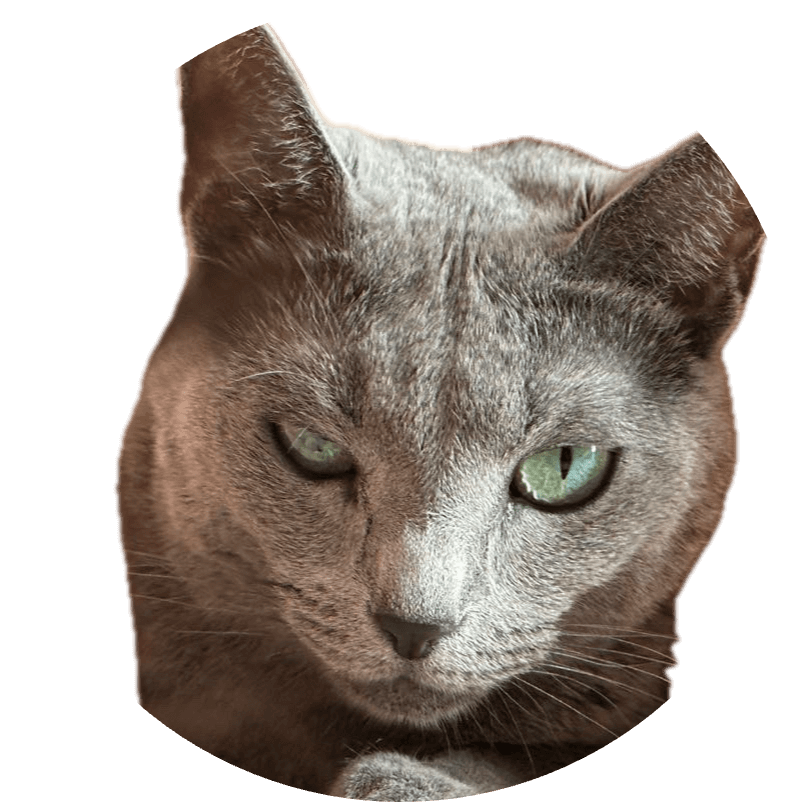
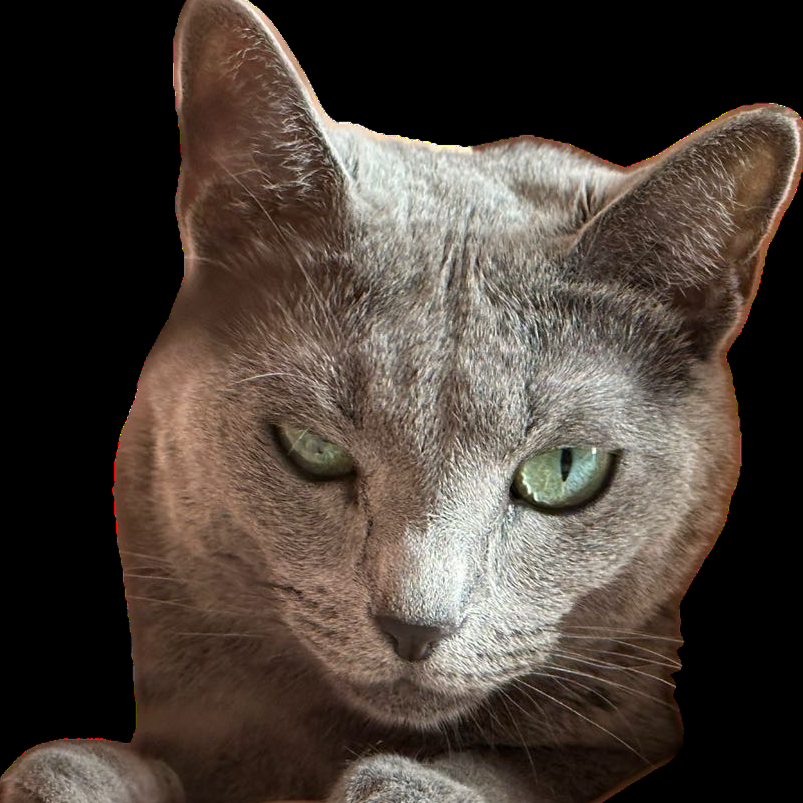
New Post

diff --git a/content/posts/2024-06-14.md b/content/posts/2024-06-14.md
@@ -1,0 +1,147 @@
+---
+title: 自我回溯和认可
+date: 2024-06-14 08:00:00
+template: post
+draft: false
+slug: /2024-06-14
+category: Misc
+tags:
+  - Misc
+cover: media/20240614-152253.jpeg
+by: Photo by &nbsp;<a>🍑</a>&nbsp; in  &nbsp;<a>杭州</a>&nbsp; on 2024/06
+---
+
+每个人都应该闪闪发光
+
+---
+
+工作一团糟，原始小作坊里面报团打压异己的同事和降智的领导让这份工作非常痛苦，心里有过无数次离职的想法，在面临多次纠结和犹豫后还是没有在 OA 上发起流程的勇气，她以为调整心态混日子开摆就会好一些
+
+家庭环境鸡飞狗跳，妈和婆婆的问题非常无解，并且她很了解自己的妈妈她认为无法改变；小孩子的成长好像也不顺利，自闭倾向严重
+
+小美现在的心境有一点糟糕，一点的非常多
+
+---
+
+最近小美的外婆病危，一直照顾孩子的亲妈主动提出了让婆婆来一起照顾，她也想多陪陪自己的妈妈；但是她对这个亲家婆好像一直不满意，在很多大家都知道的家庭细节上
+
+小美说她外婆到时候了多少有了一些老人的直觉吧，头脑还是非常清醒的，和其中一个女儿说：要跟我们说再见了
+
+97 岁的年龄了，高寿，我说：可能时候到了 🕯
+
+聊到这里的时候我眼眶一热，一年前我外婆去世的太痛苦太突然，春节前一天这个 95 岁的老太太还乐呵呵一个人往返徒步六公里来到她几个女儿家看望女儿，没几天就传来病危的消息，我爸找医生搞来白蛋白续命在痛苦中坚持了几天非常不甘心的离开了我们，我讨厌那一段不受控的时间，我妈悲不欲生，这个世界外婆离开的太莫名奇妙了，太突兀、太不真切
+
+我是个什么样的人呢？过往的一切铸就了现在的自己，过分感性和冷漠的矛盾体，热情又孤独
+
+我在安慰小美，好像也在安慰自己
+
+---
+
+工作和外婆之外小美更多的还是烦恼她儿子的问题，自闭倾向非常明显了，计划看看医生之后送到乡下爷爷奶奶那儿去生活一个暑假回来后去学校和小朋友们在一起可能会得到缓解
+
+小美认为孩子的问题是在她妈的严肃高压的环境下形成的，包括语言迟滞、社交问题、惊惧等等，小美希望爷爷放养孩子的方式可以让小朋友更轻松和快乐，多一些对世界独立的探索；相比爷爷奶奶，小美妈妈非常刻板，例如必须在什么时间做什么事情，时刻贴身管教着
+
+带娃当然是一件辛苦的事情，但是小孩子的成长环境对将来的影响太大、太深远了；
+
+1. 饭点前必须回家
+2. 吃饭的座位顺序是固定的不能随意乱坐
+3. 吃饭不能随意说话，食不言寝不语
+4. 吃饭不能低头畏畏缩缩
+5. 吃饭不能有流鼻涕之类的不文雅动作，包括翻菜、乱夹菜
+6. 吃饭的时候不能离开座位（每次饭点儿最羡慕的就是看别人家的孩子甚至大人串门吃饭聊天）
+7. 自己吃完但是父亲没吃完也不能离开座位
+
+是的，这是我小时候的成长环境的一些关于吃饭的细节，我觉得我的童年一直生活在一个阴影之中，胆怯中令人窒息
+
+---
+
+小美的母亲刻板、强势的性格无时无刻在影响着小美组件的新生的、有活力的小家庭，她母亲从她小时候就对她和她爸爸不满，中学辜负了母亲期望上了民办，但是依然考上了财大
+
+：“财大也不满意吗？很好的大学了呀”
+
+母亲托关系进拿三千工资的工行柜员结果因为学历太差被拒了，**哦原来财大在这个社会也不符合预期**
+
+和母亲的一点矛盾就可以导致全家都不愉快，但是小美认为老人的性格已经无法被改变了
+
+工作难、家庭也难：“我咋觉得我们好相似，可能大家都是这样，真的只是表面光鲜吗？”
+
+财大很差不满意吗？人人清北吗？多年的执念弥漫在家庭的每一处空气中，即使上了清北又怎么去定义这个厚望的结果应该是什么样子的呢
+
+我对小美说：这是你们的家庭，但是主人不是你们
+
+---
+
+我的求学生涯是非常非常困难的，我不知道怎么走到了今天，我好像一直没有走在正确的道路上，但是我好像也一直没有彻底陷下泥潭，这段人生可能是求学也可能学校对我来说只是一个生活方式
+
+屡屡想来都觉得过往的我成就的现在的我是那么的运气使然
+
+我和小美说：如果父辈的认知跟不上社会的发展，其实没用的，当时的工行柜员放在现在又能怎么样呢，父辈的观念没任何参考的意义，所谓的关系、纽带没有价值；我在大四为了找工作也问过我爸的一个朋友去无锡的红豆服装厂里当流水线工人呢？
+“从三四千的工资做起，不要好高骛远”
+
+小学同学上了初中的可能只有二三十人<br>
+初一班级六十人，第一学期年级开除黑社会性质学生就有六十人<br>
+初三只剩下三十，考上高中的只有寥寥几个人<br>
+考上重点高中分数线的只有两个人（我和我的另一个同桌），而上了重点高中的只有我<br>
+高一全年级入学学生一千二百多人高三只剩下八百<br>
+虽然是区域重点高中，高考全校的一本学生只有四十二个（这真的很难评价）<br>
+
+那些中途离开我们的同学们都去了哪里做了什么呢？
+
+三年级去学武术了，觉得上学没出息就去了武校，我现在还清晰的记得我当时的迷茫：他们都去了，我也想去，很酷，我可能没有学上了（虽然大部分人都没学上，每年整条街都没几个大学生，哦不家里出一个大专生都是值得举办酒席圈钱的盛宴的大事了），哦家里没钱去不了
+
+当然不只是学武术，学汽修的、跟着父母做小生意或是种地的、工地搬砖的、在家里无事不做的，哦还有初中就怀孕在家相夫教子的那些女孩子；当然也会有在这个财富决定社会地位的背景下取得成功的那些小伙伴，甚至还不少，开着豪车、放着高利贷每天在县城过着纸醉金迷的生活
+
+我很佩服我初一那个叫仇蓝清的同桌，名字好听英语好，长得很高很漂亮，每天帮好多人写英语情书，当然也收到很多情书；我羡慕的其实只有她英语很好可以写情书，花哨的 ILoveYou 可以吸引我在一旁看很久，可是第一学期就辍学了
+
+这个背景下当然也有一些进了拘留所的
+
+我高一曾被当众重重的打过耳光却不敢还手<br>
+我初一的棉被上也永远留着那一把砍刀直接戳穿的豁口
+
+我畏惧那些人、那些事、那个环境，我也想反抗<br>
+我太弱小了<br>
+我太怯弱了<br>
+我太卑微了
+
+帮派混战，我没有那些砍刀、甩棍、弹簧刀，但是十二三岁身高一米四的我拿着木质桌腿也得跟着那些人，站在人群里准备火并
+
+虽然我看过很多次打架但我其实没真的打过什么架，我看到的阴暗的事情也不是那么多，但是有太多可能在我脑海里发散，那个时候的恐惧也是无限的了
+
+---
+
+过往求学阶段我基本无法控制我的人生，父母不管不教，没有亲朋友帮衬，大部分时候是迷茫的，我有努力的学习过但是不得其法<br>
+高中阶段接触网游和小说之后是我最快乐的三年，我也曾是重度的网瘾少年
+
+后来的我非常抗拒被别人主导，极度缺乏安全感
+
+我对小美说：
+
+你非常优秀
+
+父母的观念代表他那个时代的问题，时代已经变了现在反而是他们的缺陷
+
+他们可以因为吃的盐多走的路多天然站在高处不认可不理解我们
+
+他们不接受被年轻人改变
+
+但是你的生活是你掌控的，不是他们，你已经足够优秀了，父母哪能活在二十年前中考失利的回忆上呢，对于现在的你来说父母的厚望已经不再重要了
+
+---
+
+我不知道我是怎么变成如今的自己，回溯过往仿佛一切都是命运的安排
+
+我的思想认知在大学毕业后才逐渐成熟，我逐渐认识到了如何更正确的去学习新鲜事物、去思考、去表达、去处理人际关系
+
+但是不影响我现在这个年纪依然想幼稚的骂一句：去他妈的苦难
+
+不要被外界因素干扰
+
+每个人都可以活的真实且优秀
+
+我敢爱敢恨、我敢承担一切代价
+
+加油啊小美
+
+加油啊阿本
+
+加油啊，周围的每一位朋友和家人

diff --git a/content/posts/2024-05-13.md b/content/posts/2024-05-13.md
@@ -1,0 +1,100 @@
+---
+title: WIP：再聊一聊团队建设
+date: 2024-05-13 08:00:00
+template: post
+draft: false
+slug: /team-building-2
+category: R&D
+tags:
+  - Team
+cover: media/20240513-154631.jpeg
+by: Photo by &nbsp;<a>🍑</a>&nbsp; in  &nbsp;<a>长兴岛</a>&nbsp; on 2024/02/03
+---
+
+团队中做事要有统一的规范来保证动作是一致、可控、符合团队成员认知预期的，使用统一的规范避免很多因为未知、疏忽或者记忆不清晰等带来的问题；实际开发工作中无论是需求迭代流程、代码开发、发布等环节都散落着各种人为制定或者被动形成的规范，为了提高规范执行的效率基于各类场景下的规范我们要有各类场景下的标准化操作流程，这些流程可以保证日常工作中的效率和质量
+
+健康的团队有着完善的规范和团队标准流程，这些是组成团队工作的框架，在更安全规范的框架下进行高质量高效率的工作同时进行体系化的去思考和成长，才能打造一支有战斗力和潜力的前端团队
+
+规范、流程、质量关系
+
+---
+
+# 方向和动作
+
+从制定和完善团队的基础规范和流程的角度作为出发点，沉淀规范文档和 SOP 文档，分别从以下三个维度去实施和 Review：
+
+1. 基础规范
+2. 标准流程
+3. 质量、风险管理
+
+## 基础规范
+
+制定研发团队的基础规范是确保团队工作高效、统一、规范进行的重要步骤，以下目标：
+
+1. 统一团队行为准则：统一团队成员的行为准则，确保大家在工作中遵循相同的标准和流程
+2. 提高工作效率：减少沟通成本和重复工作，加快项目进度
+3. 降低风险：质量和稳定性
+
+我们针对前端团队计划制定和完善以下基础规范
+
+### 代码规范
+
+包括命名规范、缩进风格、注释规范、代码结构等。可以参考行业通用的代码规范
+版本控制规范
+定义代码提交、分支管理、代码合并等流程，避免代码冲突和丢失。
+
+### 文档规范
+
+包括项目文档、API 文档、需求文档等，规定文档的格式、内容、更新频率等
+
+### 测试规范
+
+基础仓库
+定义测试用例编写、测试环境搭建、自动化测试等
+
+### 项目管理规范
+
+项目计划制定、进度跟踪、风险管理等，规范项目管理流程，提高项目交付的可控性和质量
+
+## 标准流程
+
+### 项目开发流程
+
+包括需求评审、功能设计、编码实现、代码审查、版本控制等
+
+### 线上问题处理流程和标准
+
+### 复盘&总结
+
+### 技术专项的发起、推进和落地
+
+### Backlog 机制（push、pick or flush）
+
+TODO 、问题、想要的工具
+收集形式
+Review 机制和周期
+推进清空
+
+### 监控
+
+### 技术分享和培训
+
+## 质量、风险管理
+
+### 代码审查
+
+### 版本控制和回滚机制
+
+### UT/E2E
+
+### CI/CD
+
+# 落地
+
+# Millstone
+
+### Stage1: 基础规范的完成和 Review 实施
+
+### Stage2: 标准流程的补全和落地
+
+### Stage3: 质量、风险等方面具体机制的确认以及辅助工具的支持

diff --git a/content/posts/2024-02-05.md b/content/posts/2024-02-05.md
@@ -9,7 +9,7 @@ tags:
   - MISC
 description:
 cover: media/20240205-183250.jpeg
-by: Photo by &nbsp;<a>🍑</a>&nbsp; in &nbsp;<a>长兴岛</a>&nbsp; on 2023/12/29
+by: Photo by &nbsp;<a>🍑</a>&nbsp; in &nbsp;<a>长兴岛</a>&nbsp; on 2024/02/03
 # https://unsplash.com/photos/basilica-during-daytime-mnx3NlXwKdg
 ---
 
